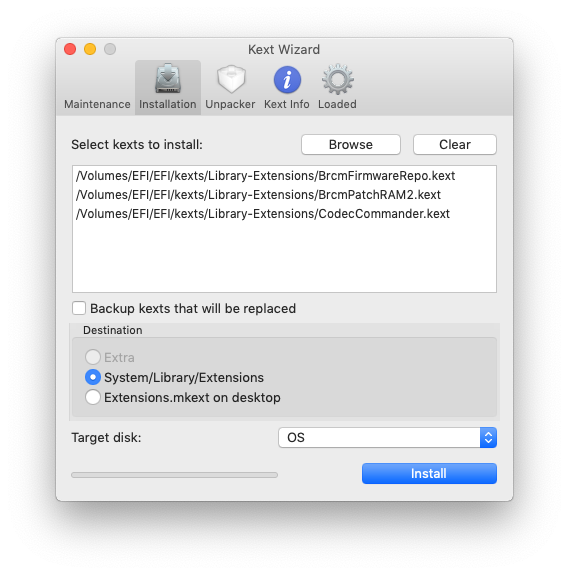
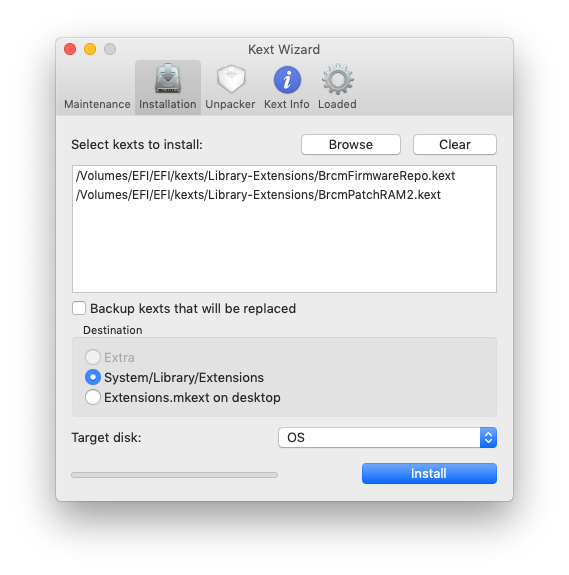
更新使用说明

Changed region(s): [[0.1195, 0.3548, 0.8067, 0.3843]]

diff --git a/README.md b/README.md
@@ -4,8 +4,15 @@ Hackintosh macOS Mojave 10.14 on XPS13-9360  黑苹果10.14安装配置及教程
 
 网络上中文资料很少，尤其是8代CPU的XPS。而我又是一个原版镜像控，又追求最新版的系统和软件，资料更是少之又少。搞这个东西前前后后搞了一个多月，系统崩溃重装无数次，现在终于稳定，各项功能基本和白苹果一致，故记录成文给后来者一个参考。
 
+建了一个QQ群，方便交流：980197002
+
+> ⚠警告：安装和使用黑苹果时经常会碰到意外，**千万千万要做好数据备份**
+>
+> ⚠建议：安装完成后关闭系统更新，更新比较容易出问题
+
 ## 更新记录
-- 2019-01-14 修正内存显示与实际情况不一致的问题。建议自行在“SMBIOS->Memory”一栏自行补充内存信息，写法参考config-RAM-16G.plist文件
+- 2019-04-05 今天手贱更新10.14.4结果启动不起来了，然后又重新搞了一份配置，更新了驱动，顺便解决了很多人碰到的声音问题。目前系统运行正常
+- 2019-01-14 修正内存显示与实际情况不一致的问题。建议自行在“SMBIOS->Memory”一栏自行补充内存信息，写法参考config-example.plist文件
 - 2018-12-21 系统更新为10.14.2 出现找不到触控板的情况，已经更新触控板驱动，现在运行正常。如果出现触控板问题请重新安装触控板驱动：<https://github.com/RehabMan/OS-X-Voodoo-PS2-Controller>
 - 2018-11-02 系统更新为10.14.1 运行正常
 
@@ -32,8 +39,6 @@ Hackintosh macOS Mojave 10.14 on XPS13-9360  黑苹果10.14安装配置及教程
 
 - 系统：macOS 10.14 Mojave（单系统，没有Windows）
 - BIOS：2.9.1
-
-
 
 ## 使用情况说明
 
@@ -75,7 +80,7 @@ Hackintosh macOS Mojave 10.14 on XPS13-9360  黑苹果10.14安装配置及教程
 sudo /Applications/Install\ macOS\ Mojave.app/Contents/Resources/createinstallmedia --volume /Volumes/USB --applicationpath /Applications/Install\ macOS\ Mojave.app --nointeraction
 ```
 
-![create-usb](docs/create-usb.png)
+![create-usb](https://github.com/0xHJK/XPS13-9360-i5-8250U-macOS/raw/master/docs/create-usb.png)
 
 4. 用tools目录下的Clover Configuration挂载EFI分区（注意区分是不是U盘，不要挂错了），然后把所有东西复制到EFI分区的EFI目录内。
 
@@ -183,33 +188,46 @@ setup_var 0x786 0x03
 
 到目前为止，启动还是通过U盘里的CLOVER引导的，所以第一件事情是把CLOVER安装到硬盘上。同样用Clover Configuration挂载硬盘的EFI分区，和U盘一样，把文件复制进去，大概如下所示。
 
-![image-20181016133944461](docs/efi-list.png)
+![image-20181016133944461](https://github.com/0xHJK/XPS13-9360-i5-8250U-macOS/raw/master/docs/efi-list.png)
 
-然后运行终端，cd到该目录下，运行如下几条命令：
+然后运行终端，cd到该目录下，根据需要运行以下命令：
 
 ```bash
+# 编译DSDT
 bash XPS9360.sh --compile-dsdt
-bash XPS9360.sh --patch-hda
+# 允许安装第三方程序
 bash XPS9360.sh --enable-3rdparty
+# 禁用TOUCHID
 bash XPS9360.sh --disable-touchid
+```
+
+然后进入ComboJack目录，运行如下命令解决耳机没有声音的问题：
+
+```bash
+bash install.sh
 ```
 
 然后用Clover Configuration随机生成以下几个序列号：
 
-![image-20181016134503963](docs/smbios.png)
+![image-20181016134503963](https://github.com/0xHJK/XPS13-9360-i5-8250U-macOS/raw/master/docs/smbios.png)
 
-![image-20181016134704814](docs/serial.png)
+![image-20181016134704814](https://github.com/0xHJK/XPS13-9360-i5-8250U-macOS/raw/master/docs/serial.png)
 
-![image-20181016134831948](docs/uuid.png)
+![image-20181016134831948](https://github.com/0xHJK/XPS13-9360-i5-8250U-macOS/raw/master/docs/uuid.png)
 
-接着打开EFI/tools里面的Kext Wizard程序，把EFI/kexts/Library-Extensions里面的三个kext文件安装到/System/Library/Extensions/目录：
+接着打开`EFI/tools`里面的Kext Wizard程序，把`EFI/kexts/Library-Extensions`里面的`BrcmFirewareRepo.kext`和`BrcmPatchRAM2.kext`文件安装到`/System/Library/Extensions/`目录，安装完成后需要重建缓存：
 
-![image-20181016135223846](docs/kexts.png)
+![image-20181016135223846](https://github.com/0xHJK/XPS13-9360-i5-8250U-macOS/raw/master/docs/kexts.png)
 
-## 解决没有声音的办法
-删除`/Library/Extensions/AppleHDA_ALC256.kext`文件，然后用Kext Wizard程序重建缓存
+## 解决耳机没有声音的办法
+进入`EFI/ComboJack`目录，运行命令`bash install.sh`
 
-参考<https://github.com/the-darkvoid/XPS9360-macOS/issues/85#issuecomment-426494719>
+参考
+
+- <https://github.com/the-darkvoid/XPS9360-macOS/issues/115#issuecomment-463154229>
+- <https://github.com/hackintosh-stuff/ComboJack>
+
+
 
 ## 解决无法连接app store的办法
 连接不上app store的核心原因在于网卡名字不是`en0`，这个可以通过`ifconfig -a`或「关于本机-系统报告-Wi-Fi」处查看。
@@ -262,4 +280,5 @@ $ cat com.apple.Boot.plist
 - [macOS on Dell XPS 9360](https://github.com/the-darkvoid/XPS9360-macOS)
 - [OS-X-BrcmPatchRAM](https://github.com/RehabMan/OS-X-BrcmPatchRAM)
 - [READ FIRST! Laptop Frequent Questions](https://www.tonymacx86.com/threads/faq-read-first-laptop-frequent-questions.164990/)
+- https://github.com/hackintosh-stuff/ComboJack
 - 以及其他工具、kext、文章贡献者
